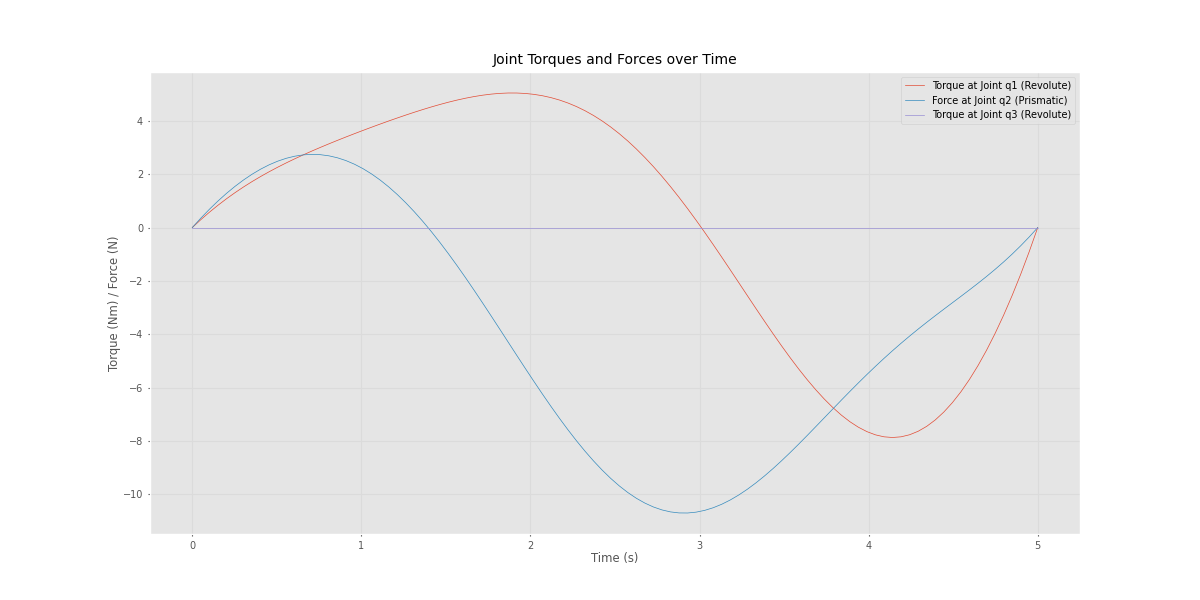
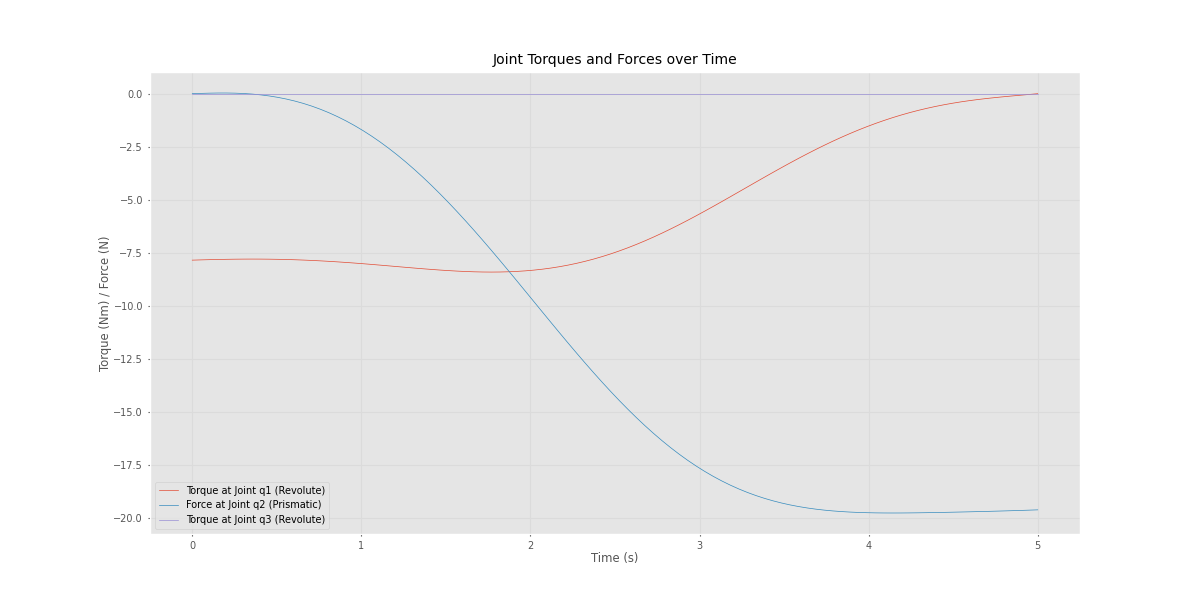
Done

diff --git a/src/dynamics.py b/src/dynamics.py
@@ -1,5 +1,3 @@
-#dynamics.py
-
 import spatialmath as sm
 import roboticstoolbox as rtb
 import numpy as np
@@ -22,16 +20,18 @@ def RPR_robot_kinematics() -> rtb.ETS:
     L3 = 0.1  # Length of the third link (in meters)
 
     # Build the ETS sequence
-    ets = (
-        rtb.ET.Rz() *       # Revolute joint q1 about z-axis
+    robot = (
+        rtb.ET.Ry() *       # Revolute joint q1 about y-axis
         rtb.ET.tx(L1) *     # Fixed link of length L1 along x-axis
         rtb.ET.tx() *       # Prismatic joint q2 along x-axis
-        rtb.ET.Rz() *       # Revolute joint q3 about z-axis
+        rtb.ET.Rx() *       # Revolute joint q3 about x-axis
         rtb.ET.tx(L3)       # Fixed link of length L3 along x-axis
-    )
+        )
 
-    return ets
+    return robot
     
+
+
 
 # ---------- Question 4.2 ---------- #
 def simulateDynamics(q_start: np.ndarray, q_end: np.ndarray, n:int, t_total:float) -> np.ndarray:
@@ -59,51 +59,34 @@ def simulateDynamics(q_start: np.ndarray, q_end: np.ndarray, n:int, t_total:floa
     # your code here
     robot = RPR_robot_kinematics()
     robot = rtb.Robot(robot)
-   
 
-    # generate quintic trajectory for each joint
-    traj_q1 = rtb.jtraj(q_start[0], q_end[0], n)
-    traj_q2 = rtb.jtraj(q_start[1], q_end[1], n)
-    traj_q3 = rtb.jtraj(q_start[2], q_end[2], n)
+    # Time array
+    t = np.linspace(0, t_total, n)
 
-    # position, velocity, acceleration can be obtained using traj.q, traj.qd, traj.qdd
+    # Quintic trajectory generation for each joint
+    traj_q1 = rtb.tools.trajectory.jtraj(q_start[0], q_end[0], t)
+    traj_q2 = rtb.tools.trajectory.jtraj(q_start[1], q_end[1], t)
+    traj_q3 = rtb.tools.trajectory.jtraj(q_start[2], q_end[2], t)
 
-    radius = 0.1  # Radius of the cylindrical links
-    # Calculate the inertia tensor for each link (cylinders)
-    I_cylinder = lambda m, r, h: np.array([0.5 * m * r**2, (1/12) * m * (3 * r**2 + h**2), 
-                                           (1/12) * m * (3 * r**2 + h**2), 0, 0, 0])
-
-    # set appropriate dynamic propoerties for each link
-
-    robot.links[0].m = 1.0  # Mass of the first link (kg)
-    robot.links[0].r = np.array([0, 0, 0.2])  # Center of mass (in the link frame)
-    robot.links[0].I = I_cylinder(robot.links[0].m, radius, 0.4)  # Inertia tensor
-    
-    robot.links[1].m = 1.0  # Mass of the second link (kg)
-    robot.links[1].r = np.array([0, 0, 0.05])  # Center of mass (in the link frame)
-    robot.links[1].I = I_cylinder(robot.links[1].m, radius, 0.1)  # Inertia tensor
-    
-    robot.links[2].m = 1.0  # Mass of the third link (kg)
-    robot.links[2].r = np.array([0, 0, 0.05])  # Center of mass (in the link frame)
-    robot.links[2].I = I_cylinder(robot.links[2].m, radius, 0.1)  # Inertia tensor
-
-    # Initialize an array to store the joint torques/forces
+    # Initialize arrays for torques at each time step
     Q = np.zeros((3, n))
 
-    # Loop through each time step to calculate the torques/forces
+    # Set dynamic properties for each link
+    robot.links[0].m = 1  # mass of the link
+    robot.links[1].m = 1
+    robot.links[2].m = 1
+
     for i in range(n):
         # Joint positions, velocities, and accelerations at time step i
         q = np.array([traj_q1.q[i], traj_q2.q[i], traj_q3.q[i]]).reshape((1,-1))
         qd = np.array([traj_q1.qd[i], traj_q2.qd[i], traj_q3.qd[i]]).reshape((1,-1))
         qdd = np.array([traj_q1.qdd[i], traj_q2.qdd[i], traj_q3.qdd[i]]).reshape((1,-1))
-
-        # Calculate the joint torques/forces using the recursive Newton-Euler algorithm
-        tau = robot.rne(q, qd, qdd)
         
-        # Store the computed torques/forces
-        Q[:, i] = tau
+        # Compute the torques using RNE
+
+        Q[:, i] = robot.rne(q, qd, qdd)
 
     return Q
-
+    
 
 
